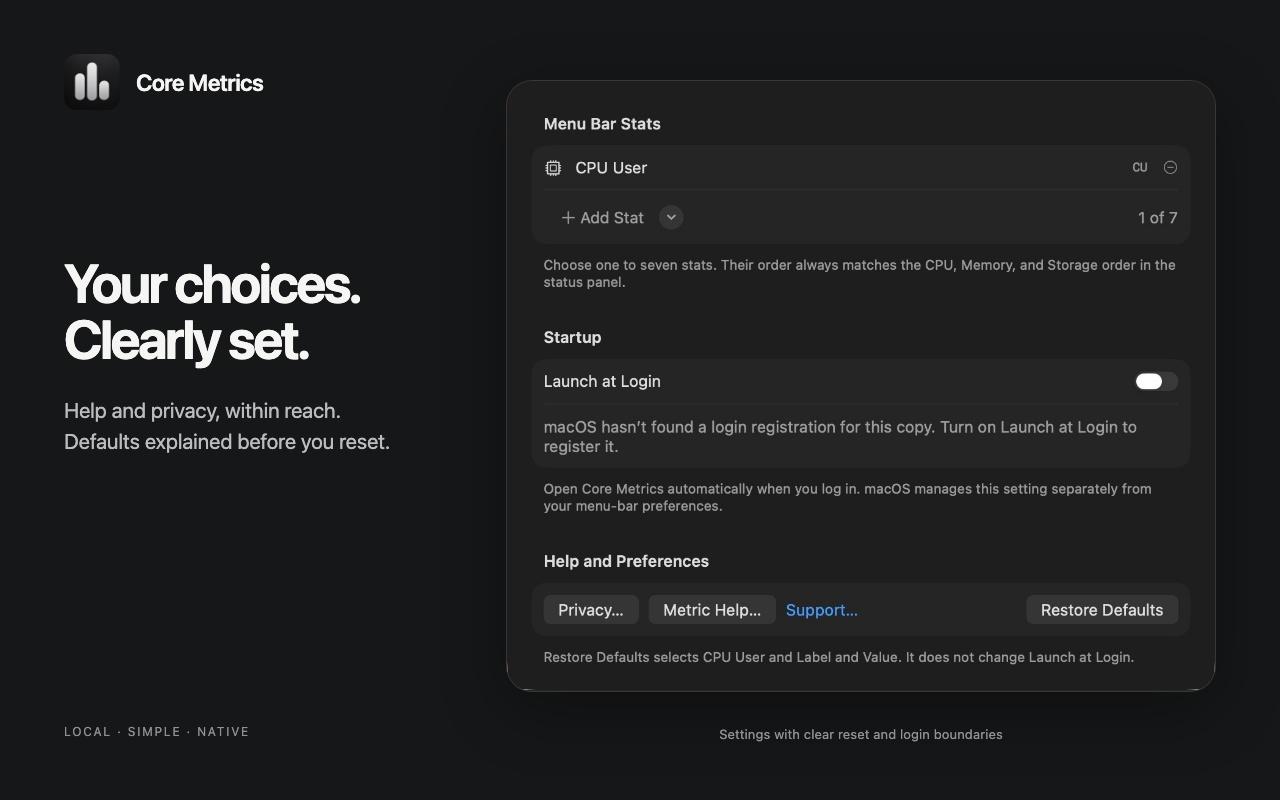
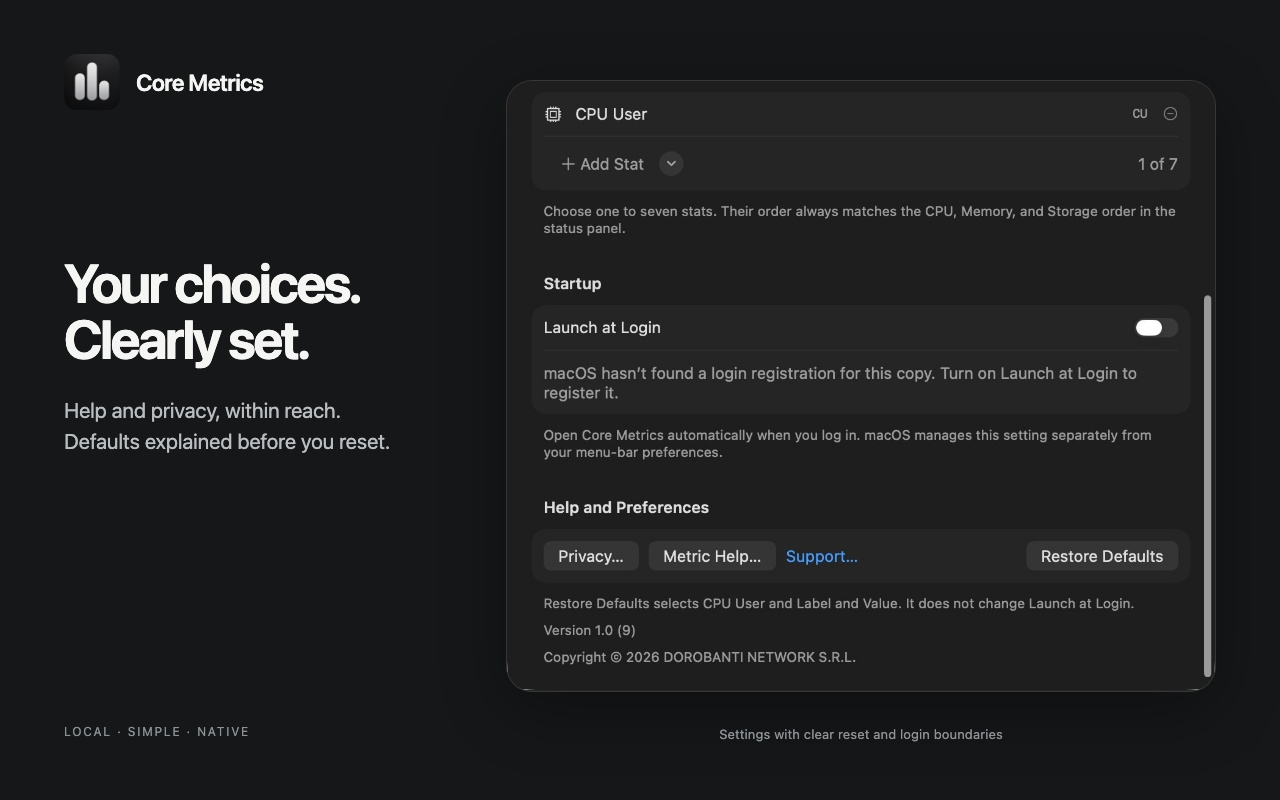
docs: record build9 delivery and genuine Settings artwork

diff --git a/docs/app-store/screenshots/03-preferences.html b/docs/app-store/screenshots/03-preferences.html
@@ -11,7 +11,7 @@
 <p class="description">Help and privacy, within reach.<br>Defaults explained before you reset.</p>
 </section>
 <div class="tags">LOCAL · SIMPLE · NATIVE</div>
-<div class="capture preferences"><img src="source/preferences-build8-real.png" alt="Unmodified native Core Metrics Settings, scrolled to Help and Preferences"></div>
+<div class="capture preferences"><img src="source/preferences-build9-real.png" alt="Unmodified native Core Metrics Settings, scrolled to Help and Preferences"></div>
 <div class="caption">Settings with clear reset and login boundaries</div>
 </body>
 </html>

diff --git a/docs/app-store/screenshots/01-settings.html b/docs/app-store/screenshots/01-settings.html
@@ -13,7 +13,7 @@
 </section>
 <div class="tags">CPU · MEMORY · STORAGE</div>
 <div class="capture settings">
-<img src="source/settings-build8-real.png" alt="Unmodified native Core Metrics interface">
+<img src="source/settings-build9-real.png" alt="Unmodified native Core Metrics interface">
 </div>
 <div class="caption">Settings with real, current readings</div>
 </body>

diff --git a/docs/app-store/screenshots/02-metric-help.html b/docs/app-store/screenshots/02-metric-help.html
@@ -13,7 +13,7 @@
 </section>
 <div class="tags">CPU · MEMORY · STORAGE</div>
 <div class="capture help">
-<img src="source/metric-help-build8-real.png" alt="Unmodified native Core Metrics interface">
+<img src="source/metric-help-build9-real.png" alt="Unmodified native Core Metrics interface">
 </div>
 <div class="caption">Metric Help in Core Metrics</div>
 </body>

diff --git a/docs/COMPREHENSIVE_REVIEW_2026-10-12.md b/docs/COMPREHENSIVE_REVIEW_2026-10-12.md
@@ -1,6 +1,6 @@
 # Core Metrics comprehensive review — 12 October 2026
 
-Current native candidate: **1.0 (9), locally validated, not yet archived or uploaded at this checkpoint**. Starting clean native revision: `938da31f4426cebdb29faa404098e15f661dcfce`; companion website: `ff7ba975c2111c1b03f09b8282b515e8f6297097`. The [build-8 delivery receipt](RELEASE_PREPARATION_2026-10-12.md) and [owner-only beta cleanup](<../../Pe langa/Verification/TestFlightCleanup2026-10-12.md>) remain dated account evidence. Build 8 is currently Testing for the sole specified owner; build 9 is a new source candidate, not an observed App Store Connect state.
+Current native candidate: **1.0 (9), Apple-validated and upload accepted at 04:08:10.573 EEST on 12 October**. Frozen source: `401f9c2363bb1846a2ae376d7c7b877f49a4cab0`. Starting clean native revision: `938da31f4426cebdb29faa404098e15f661dcfce`; companion website: `ff7ba975c2111c1b03f09b8282b515e8f6297097`. The [build-8 delivery receipt](RELEASE_PREPARATION_2026-10-12.md) and [owner-only beta cleanup](<../../Pe langa/Verification/TestFlightCleanup2026-10-12.md>) remain dated account evidence. The last authenticated audience observation has build 8 Testing for the sole specified owner. Upload 9 acceptance does not itself establish processing, assignment or installation; those account steps remain pending at this checkpoint.
 
 ## Outcome and scope
 
@@ -30,8 +30,8 @@ Private evidence: `CoreMetricsComprehensive20261012-uddkj7t4` in the system temp
 
 ## Delivery and remaining acceptance
 
-The [build-9 TestFlight notes](TESTFLIGHT_BUILD_9_NOTES_EN.txt) and [App Review notes](APP_REVIEW_BUILD_9_NOTES_EN.txt) are prepared for exact authenticated save/readback. Build 9 must be frozen to a reviewed commit, archived using the retained authorized release configuration, validated as a signed archive and installer, Apple-validated and uploaded. Processing, new-group assignment, build-8 expiry, public-draft selection and screenshot replacement are separate observed actions; none is inferred from local checks. The old screenshots do not show the new footer.
[1 lines of base64/hex data omitted]
 
-The isolated light-appearance Debug9 fixture was inspected through native accessibility and an actual screenshot: the scrollbar reaches the entire footer, Version 1.0 (9), copyright and restore explanation are visible without clipped controls. The fixture quit normally; all baseline application processes remained running. Private evidence is `VisualDebug9/settings-footer-light.png` and `ownership.json` alongside the logs. This confirms the focused footer rendering, not full keyboard/VoiceOver acceptance or genuine App Store artwork. A real signed Release9 Settings capture remains needed. Broader current desktop behavior, VoiceOver and accessibility display settings, constrained menu-bar space, sleep/wake, a complete login cycle, installed TestFlight acceptance and minimum macOS **27.0** acceptance remain separate from this macOS 27.2 non-GUI run. Reachable hardware is not evidence that the delivered candidate is installed.
+The isolated light-appearance Debug9 fixture was inspected through native accessibility and an actual screenshot: the scrollbar reaches the entire footer, Version 1.0 (9), copyright and restore explanation are visible without clipped controls. The fixture quit normally; all baseline application processes remained running. Private evidence is `VisualDebug9/settings-footer-light.png` and `ownership.json` alongside the logs. This confirms the focused footer rendering, not full keyboard/VoiceOver acceptance or genuine App Store artwork. A subsequent genuine signed Release 9 capture now confirms Settings top/lower footer and Metric Help in dark appearance. All three images were visually inspected; Escape dismissed Help, the owned candidate quit, all baseline app processes stayed running, and the executable/signature remained unchanged. No setting, clipboard, mail or login control was changed. See the capture provenance; store upload remains separate. Broader current desktop behavior, VoiceOver and accessibility display settings, constrained menu-bar space, sleep/wake, a complete login cycle, installed TestFlight acceptance and minimum macOS **27.0** acceptance remain separate from this macOS 27.2 non-GUI run. Reachable hardware is not evidence that the delivered candidate is installed.
 
 Website legal notices remain marked drafts with noindex and failed-closed publication approval. Confirmed ownership does not approve final legal wording, verify provider retention/transfers, prove mailbox delivery or authorize a public App Review submission/release. Preserve the remaining facts in the shared policy.

diff --git a/README.md b/README.md
@@ -1,6 +1,6 @@
 <p align="center"><img src="docs/assets/Core-Metrics-AppIcon-Master.png" width="128" height="128" alt="Core Metrics app icon"></p>
 
-[Comprehensive 12 October review](docs/COMPREHENSIVE_REVIEW_2026-10-12.md) records the new **1.0 (9)** Settings version/build and confirmed copyright, source review and passing non-GUI checks. Delivery and a genuine candidate footer screenshot are still pending; the build-8 observations below remain historical account evidence.
+[Comprehensive 12 October review](docs/COMPREHENSIVE_REVIEW_2026-10-12.md) records the new **1.0 (9)** Settings version/build and confirmed copyright, source review and passing non-GUI checks. Apple validation/upload and actual signed-candidate screenshots are complete; processing, latest-only beta assignment and listing replacement still require account readback. Build-8 observations below remain historical account evidence.
 
 [12 October release receipt](docs/RELEASE_PREPARATION_2026-10-12.md) records committed build **1.0 (8)**, passing archive/export checks, Apple validation/upload acceptance, production website verification and saved public review metadata. Processing is Complete. The later [owner-requested TestFlight cleanup](<../Pe langa/Verification/TestFlightCleanup2026-10-12.md>) verifies 1–7 Expired and the new internal group with only the specified existing owner, 8 Testing and automatic distribution off. A fresh full reload confirms only that internal group and an empty external section; the old app groups were removed while historical external tester records were preserved. Installed acceptance remains separate.
 
@@ -82,7 +82,7 @@ The [11 October portfolio review](docs/PORTFOLIO_REVIEW_2026-10-11.md) records t
 
 Core Metrics uses documented public Apple APIs and the App Sandbox entitlement. The privacy manifest declares disk-space display and app-only UserDefaults access, with no tracking or collected data. Settings → Privacy explains aggregate readings, saved preferences, the absence of network connections, and local diagnostic messages. Logging contains only metric-category failure/recovery transitions. Fan control, process inspection, file scanning, cleaning, privileged helpers, private APIs, and cloud features are outside product scope.
 
-The delivered build **1.0 (8)** and three original candidate screenshots retain their dated receipt. The later owner-requested cleanup leaves build 8 Testing only for the specified owner in the replacement internal group, with automatic distribution off and older builds expired. The new source candidate **1.0 (9)** adds actual version/build and copyright in Settings; its delivery and replacement screenshot are tracked in the [comprehensive review](docs/COMPREHENSIVE_REVIEW_2026-10-12.md). Neither local checks nor beta availability establish installed acceptance or permission for public submission.
+The delivered build **1.0 (8)** and three original candidate screenshots retain their dated receipt. The later owner-requested cleanup leaves build 8 Testing only for the specified owner in the replacement internal group, with automatic distribution off and older builds expired. The new source candidate **1.0 (9)** adds actual version/build and copyright in Settings; its accepted upload, prepared replacement screenshots and remaining account steps are tracked in the [comprehensive review](docs/COMPREHENSIVE_REVIEW_2026-10-12.md). Neither local checks nor beta availability establish installed acceptance or permission for public submission.
 
 No simulator is needed for this macOS target. Do not erase simulators or delete installed runtimes because this app does not use them. Inventory Xcode caches before cleanup, retain archives/dSYMs/signing material, and remove only verified stale reproducible artifacts. Cache deletion makes the next build slower.
 

diff --git a/docs/app-store/screenshots/README.md b/docs/app-store/screenshots/README.md
@@ -1,5 +1,15 @@
 # Mac App Store screenshots
 
+## Current build-9 replacement set — 12 October 2026
+
+The three current `01-settings.jpg`, `02-metric-help.jpg` and `03-preferences.jpg` exports are now **1280×800 opaque JPEG compositions of genuine signed Release 1.0 (9) captures**. They preserve the existing Settings → Metric Help → Preferences order. The third image now shows actual Version 1.0 (9) and the confirmed 2026 publisher copyright. The images are prepared and visually inspected locally; uploading them to the listing and verifying remote rendering/order remain separate steps.
+
+Source `401f9c2363bb1846a2ae376d7c7b877f49a4cab0` was archived, strictly verified, Apple-validated and uploaded. The unmodified signed archive app was opened separately using its distribution bundle identifier; the ordinary development app remained running. Capture used Settings opening/scrolling and Metric Help only. No preference/login/copy/mail control or system appearance changed; Help dismissed with Escape and the owned candidate quit normally. The binary/signature were rechecked unchanged. Raw Settings captures are 1160×1064; Help is 960×920. [Exact hashes and provenance](provenance-build9.json) cover sources and exports. No source capture was re-signed, retouched, synthesized or made with DEBUG fixtures.
+
+The HTML/CSS method described below is unchanged and truthfully distinguishes native window pixels from the store marketing canvas. All earlier build-8/build-5 source images remain preserved; old exported compositions remain in Git history and uploaded assets remain in Apple’s library.
+
+## Historical build-8 preparation and upload
+
 Three English screenshots prepared 12 October 2026 from the real **Core Metrics 1.0 (8)** distribution archive:
 
 1. `01-settings.jpg` — native Settings at the current default CPU User selection, with a live reading and all four display choices.

diff --git a/docs/APP_STORE_LAUNCH_CHECKLIST.md b/docs/APP_STORE_LAUNCH_CHECKLIST.md
@@ -1,6 +1,6 @@
 # App Store launch checklist — October 12, 2026
 
-[Comprehensive 12 October review](COMPREHENSIVE_REVIEW_2026-10-12.md) records the new **1.0 (9)** Settings version/build and confirmed copyright, source review and passing non-GUI checks. Delivery and a genuine candidate footer screenshot are still pending; the build-8 observations below remain historical account evidence.
+[Comprehensive 12 October review](COMPREHENSIVE_REVIEW_2026-10-12.md) records the new **1.0 (9)** Settings version/build and confirmed copyright, source review and passing non-GUI checks. Apple validation/upload and actual signed-candidate screenshots are complete; processing, latest-only beta assignment and listing replacement still require account readback. Build-8 observations below remain historical account evidence.
 
 **Current owner-requested TestFlight cleanup — 12 October:** builds **1–7 are Expired** and 8 remains active. A fresh full reload confirms only the new internal group with **the specified existing owner / 1 tester / 1 build: 8 Testing**, 90 days, automatic distribution **off**, and an empty external section. The old internal group was deleted; the old external was removed from the app, preserving historical tester records. Public build 8, exact notes, release choice and the three real candidate screenshots retain their saved scope. Installation is unverified. See the [consolidated cleanup record](<../../Pe langa/Verification/TestFlightCleanup2026-10-12.md>). Earlier group counts and external availability below are dated history.
 

diff --git a/docs/PROJECT_ANALYSIS_REPORT.md b/docs/PROJECT_ANALYSIS_REPORT.md
@@ -1,6 +1,6 @@
 # Core Metrics project analysis and remediation report
 
-[Comprehensive 12 October review](COMPREHENSIVE_REVIEW_2026-10-12.md) records the new **1.0 (9)** Settings version/build and confirmed copyright, source review and passing non-GUI checks. Delivery and a genuine candidate footer screenshot are still pending; the build-8 observations below remain historical account evidence.
+[Comprehensive 12 October review](COMPREHENSIVE_REVIEW_2026-10-12.md) records the new **1.0 (9)** Settings version/build and confirmed copyright, source review and passing non-GUI checks. Apple validation/upload and actual signed-candidate screenshots are complete; processing, latest-only beta assignment and listing replacement still require account readback. Build-8 observations below remain historical account evidence.
 
 ## Owner-requested beta audience cleanup — 12 October 2026
 
